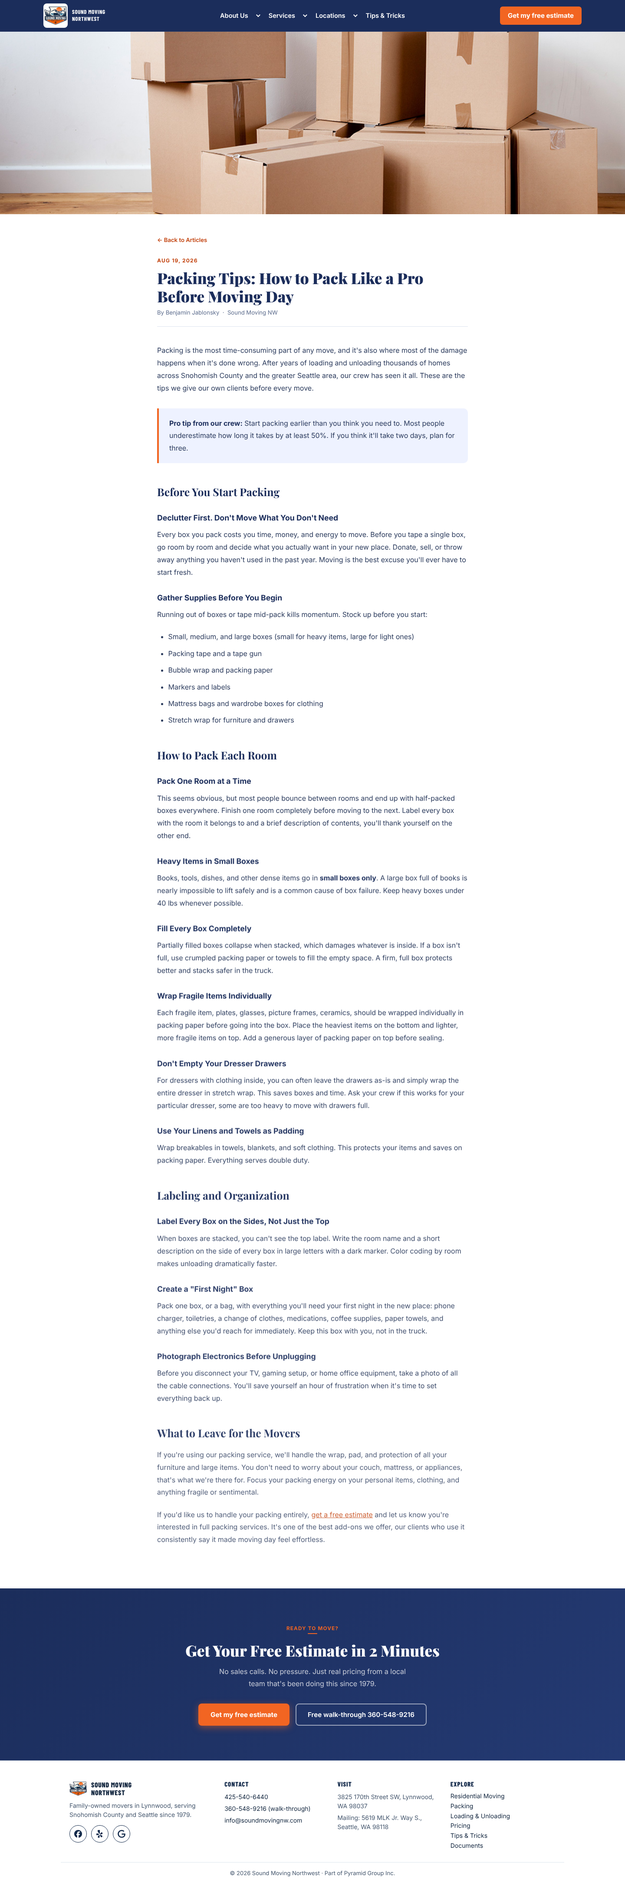
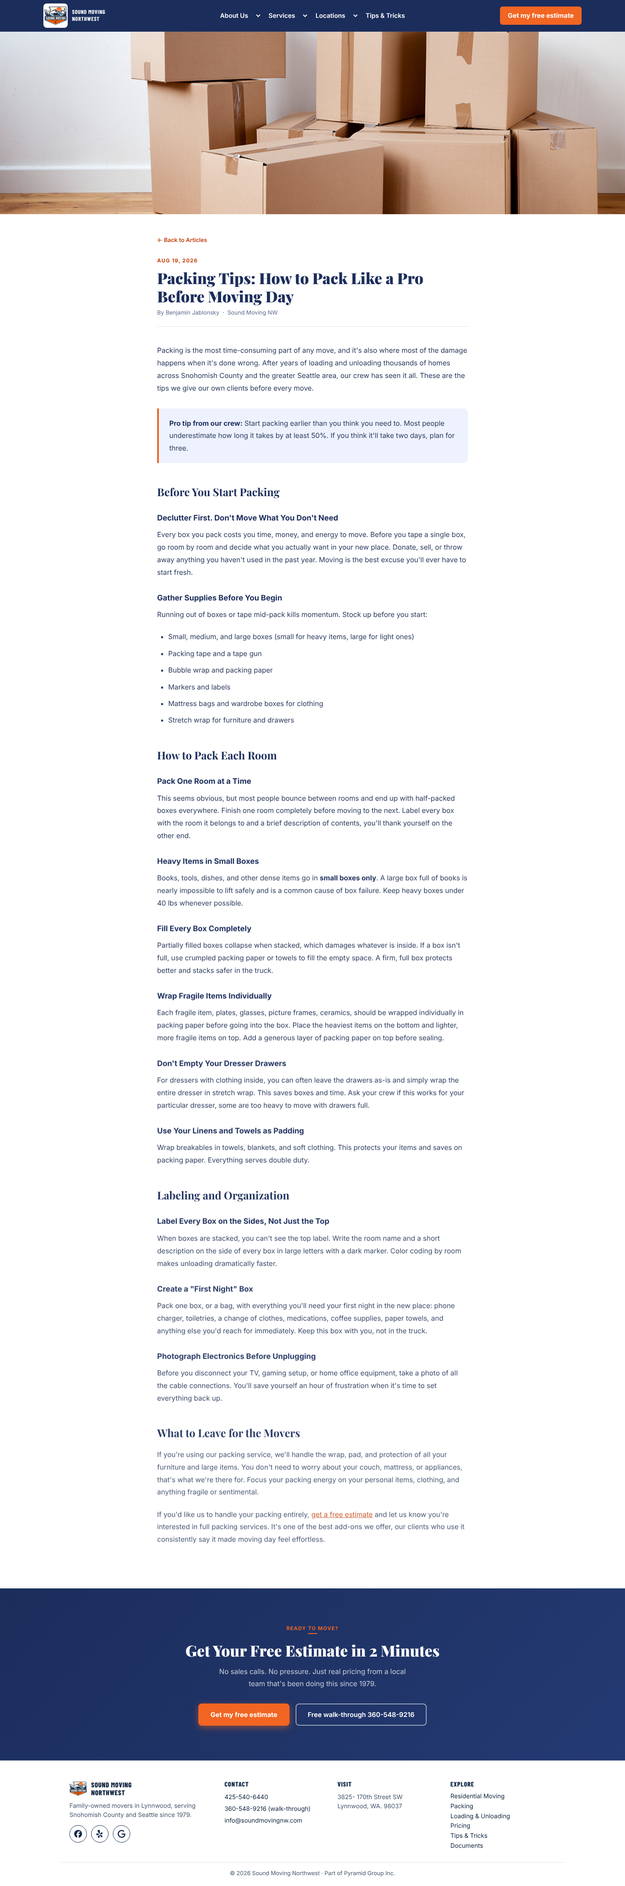
Hero subheadings on every page, Lynnwood address format, no staff names
Claude-Session: https://claude.ai/code/session_01XR3d1gvc3BsSzCEJMdNuLk

Changed region(s): [[0.25, 0.5598, 0.4688, 0.5909], [0.5625, 0.933, 0.625, 0.9641]]

diff --git a/our-story.html b/our-story.html
@@ -45,6 +45,7 @@
     <div class="hp-hero-inner">
       <div class="hp-hero-copy">
         <h1>Our <span class="accent">Story</span></h1>
+        <p class="lead">A family business started in Seattle in 1979, now moving homes across Snohomish County and Seattle from Lynnwood.</p>
         <div class="hp-btns">
           <a class="hp-btn-primary" href="quote.html">Get my free estimate</a>
           <a class="hp-btn-secondary" href="tel:4255406440">Call 425-540-6440</a>
@@ -58,7 +59,7 @@
         <div class="hp-label">Let our family move yours</div>
         <h2 class="hp-title">A Seattle moving family since 1979</h2>
         <p>Our father grew up in Seattle and started his first moving company here in 1979. We learned the trade from him, working moves through high school, and we have run the family business the same way ever since: be professional, be honest and put the customer first.</p>
-        <p>Today Sound Moving Northwest is based in Lynnwood and moves homes and businesses across Snohomish County, Seattle and the rest of Washington State. You will often speak to Ben in the office and see Dan on the job, and our crews are people we have trained ourselves.</p>
+        <p>Today Sound Moving Northwest is based in Lynnwood and moves homes and businesses across Snohomish County, Seattle and the rest of Washington State. Our crews are people we have trained ourselves, and the same family values guide every move.</p>
         <p>You have enough to think about when you move. Our job is to make the move itself the easy part.</p>
         <div class="hp-btns"><a class="hp-btn-primary" href="quote.html">Get my free estimate</a></div>
       </div>
@@ -69,7 +70,7 @@
           <div><strong>150+</strong><span>Five-star reviews</span></div>
           <div><strong>50+</strong><span>Cities served</span></div>
         </div>
-        <p class="hp-checkcard-note">3825 170th Street SW, Lynnwood, WA 98037</p>
+        <p class="hp-checkcard-note">3825- 170th Street SW, Lynnwood, WA. 98037</p>
       </aside>
     </div>
   </section>
@@ -83,7 +84,7 @@
   </section>
   <section class="hp-section alt">
     <div class="hp-head hp-reveal"><div class="hp-label">Reviews</div><h2 class="hp-title">What our customers say</h2></div>
-    <div class="hp-quotes"><figure class="hp-quote hp-reveal"><div class="hp-stars" aria-label="5 out of 5 stars"><svg viewBox="0 0 24 24" aria-hidden="true"><path d="M12 2.5l2.9 6.1 6.6.8-4.9 4.6 1.3 6.6L12 17.4 6.1 20.6l1.3-6.6-4.9-4.6 6.6-.8z" fill="currentColor"/></svg><svg viewBox="0 0 24 24" aria-hidden="true"><path d="M12 2.5l2.9 6.1 6.6.8-4.9 4.6 1.3 6.6L12 17.4 6.1 20.6l1.3-6.6-4.9-4.6 6.6-.8z" fill="currentColor"/></svg><svg viewBox="0 0 24 24" aria-hidden="true"><path d="M12 2.5l2.9 6.1 6.6.8-4.9 4.6 1.3 6.6L12 17.4 6.1 20.6l1.3-6.6-4.9-4.6 6.6-.8z" fill="currentColor"/></svg><svg viewBox="0 0 24 24" aria-hidden="true"><path d="M12 2.5l2.9 6.1 6.6.8-4.9 4.6 1.3 6.6L12 17.4 6.1 20.6l1.3-6.6-4.9-4.6 6.6-.8z" fill="currentColor"/></svg><svg viewBox="0 0 24 24" aria-hidden="true"><path d="M12 2.5l2.9 6.1 6.6.8-4.9 4.6 1.3 6.6L12 17.4 6.1 20.6l1.3-6.6-4.9-4.6 6.6-.8z" fill="currentColor"/></svg></div><blockquote>These people are professionals. Dan, the owner, is fantastic and a real stand-up guy. I would not hesitate to use Sound Moving NW again and highly recommend them to anyone looking for skilled, experienced and prompt movers.</blockquote><figcaption><strong>Emily S.</strong> on Yelp</figcaption></figure><figure class="hp-quote hp-reveal"><div class="hp-stars" aria-label="5 out of 5 stars"><svg viewBox="0 0 24 24" aria-hidden="true"><path d="M12 2.5l2.9 6.1 6.6.8-4.9 4.6 1.3 6.6L12 17.4 6.1 20.6l1.3-6.6-4.9-4.6 6.6-.8z" fill="currentColor"/></svg><svg viewBox="0 0 24 24" aria-hidden="true"><path d="M12 2.5l2.9 6.1 6.6.8-4.9 4.6 1.3 6.6L12 17.4 6.1 20.6l1.3-6.6-4.9-4.6 6.6-.8z" fill="currentColor"/></svg><svg viewBox="0 0 24 24" aria-hidden="true"><path d="M12 2.5l2.9 6.1 6.6.8-4.9 4.6 1.3 6.6L12 17.4 6.1 20.6l1.3-6.6-4.9-4.6 6.6-.8z" fill="currentColor"/></svg><svg viewBox="0 0 24 24" aria-hidden="true"><path d="M12 2.5l2.9 6.1 6.6.8-4.9 4.6 1.3 6.6L12 17.4 6.1 20.6l1.3-6.6-4.9-4.6 6.6-.8z" fill="currentColor"/></svg><svg viewBox="0 0 24 24" aria-hidden="true"><path d="M12 2.5l2.9 6.1 6.6.8-4.9 4.6 1.3 6.6L12 17.4 6.1 20.6l1.3-6.6-4.9-4.6 6.6-.8z" fill="currentColor"/></svg></div><blockquote>Sound Moving Northwest met all our expectations! They were competent, efficient and a good value. Their telephone estimate was very close to the final invoice.</blockquote><figcaption><strong>Kris Elshaug</strong> on Google</figcaption></figure><figure class="hp-quote hp-reveal"><div class="hp-stars" aria-label="5 out of 5 stars"><svg viewBox="0 0 24 24" aria-hidden="true"><path d="M12 2.5l2.9 6.1 6.6.8-4.9 4.6 1.3 6.6L12 17.4 6.1 20.6l1.3-6.6-4.9-4.6 6.6-.8z" fill="currentColor"/></svg><svg viewBox="0 0 24 24" aria-hidden="true"><path d="M12 2.5l2.9 6.1 6.6.8-4.9 4.6 1.3 6.6L12 17.4 6.1 20.6l1.3-6.6-4.9-4.6 6.6-.8z" fill="currentColor"/></svg><svg viewBox="0 0 24 24" aria-hidden="true"><path d="M12 2.5l2.9 6.1 6.6.8-4.9 4.6 1.3 6.6L12 17.4 6.1 20.6l1.3-6.6-4.9-4.6 6.6-.8z" fill="currentColor"/></svg><svg viewBox="0 0 24 24" aria-hidden="true"><path d="M12 2.5l2.9 6.1 6.6.8-4.9 4.6 1.3 6.6L12 17.4 6.1 20.6l1.3-6.6-4.9-4.6 6.6-.8z" fill="currentColor"/></svg><svg viewBox="0 0 24 24" aria-hidden="true"><path d="M12 2.5l2.9 6.1 6.6.8-4.9 4.6 1.3 6.6L12 17.4 6.1 20.6l1.3-6.6-4.9-4.6 6.6-.8z" fill="currentColor"/></svg></div><blockquote>They moved my piano quickly and handled it with extreme care. They gave me an accurate price range for my quote so there were no surprises at the time of payment.</blockquote><figcaption><strong>Zoe P.</strong> on Yelp</figcaption></figure><figure class="hp-quote hp-reveal"><div class="hp-stars" aria-label="5 out of 5 stars"><svg viewBox="0 0 24 24" aria-hidden="true"><path d="M12 2.5l2.9 6.1 6.6.8-4.9 4.6 1.3 6.6L12 17.4 6.1 20.6l1.3-6.6-4.9-4.6 6.6-.8z" fill="currentColor"/></svg><svg viewBox="0 0 24 24" aria-hidden="true"><path d="M12 2.5l2.9 6.1 6.6.8-4.9 4.6 1.3 6.6L12 17.4 6.1 20.6l1.3-6.6-4.9-4.6 6.6-.8z" fill="currentColor"/></svg><svg viewBox="0 0 24 24" aria-hidden="true"><path d="M12 2.5l2.9 6.1 6.6.8-4.9 4.6 1.3 6.6L12 17.4 6.1 20.6l1.3-6.6-4.9-4.6 6.6-.8z" fill="currentColor"/></svg><svg viewBox="0 0 24 24" aria-hidden="true"><path d="M12 2.5l2.9 6.1 6.6.8-4.9 4.6 1.3 6.6L12 17.4 6.1 20.6l1.3-6.6-4.9-4.6 6.6-.8z" fill="currentColor"/></svg><svg viewBox="0 0 24 24" aria-hidden="true"><path d="M12 2.5l2.9 6.1 6.6.8-4.9 4.6 1.3 6.6L12 17.4 6.1 20.6l1.3-6.6-4.9-4.6 6.6-.8z" fill="currentColor"/></svg></div><blockquote>It's refreshing and reassuring to have things go exactly as promised. The staff are all pros. My second time using this company, and twice they came in under bid.</blockquote><figcaption><strong>Sue Griffith</strong> on Google</figcaption></figure></div>
+    <div class="hp-quotes"><figure class="hp-quote hp-reveal"><div class="hp-stars" aria-label="5 out of 5 stars"><svg viewBox="0 0 24 24" aria-hidden="true"><path d="M12 2.5l2.9 6.1 6.6.8-4.9 4.6 1.3 6.6L12 17.4 6.1 20.6l1.3-6.6-4.9-4.6 6.6-.8z" fill="currentColor"/></svg><svg viewBox="0 0 24 24" aria-hidden="true"><path d="M12 2.5l2.9 6.1 6.6.8-4.9 4.6 1.3 6.6L12 17.4 6.1 20.6l1.3-6.6-4.9-4.6 6.6-.8z" fill="currentColor"/></svg><svg viewBox="0 0 24 24" aria-hidden="true"><path d="M12 2.5l2.9 6.1 6.6.8-4.9 4.6 1.3 6.6L12 17.4 6.1 20.6l1.3-6.6-4.9-4.6 6.6-.8z" fill="currentColor"/></svg><svg viewBox="0 0 24 24" aria-hidden="true"><path d="M12 2.5l2.9 6.1 6.6.8-4.9 4.6 1.3 6.6L12 17.4 6.1 20.6l1.3-6.6-4.9-4.6 6.6-.8z" fill="currentColor"/></svg><svg viewBox="0 0 24 24" aria-hidden="true"><path d="M12 2.5l2.9 6.1 6.6.8-4.9 4.6 1.3 6.6L12 17.4 6.1 20.6l1.3-6.6-4.9-4.6 6.6-.8z" fill="currentColor"/></svg></div><blockquote>Great communication from the start from the team. Items were handled with care and the crew was efficient and hard working. Would not hesitate to recommend them to anyone.</blockquote><figcaption><strong>Matt Adkison</strong> on Google</figcaption></figure><figure class="hp-quote hp-reveal"><div class="hp-stars" aria-label="5 out of 5 stars"><svg viewBox="0 0 24 24" aria-hidden="true"><path d="M12 2.5l2.9 6.1 6.6.8-4.9 4.6 1.3 6.6L12 17.4 6.1 20.6l1.3-6.6-4.9-4.6 6.6-.8z" fill="currentColor"/></svg><svg viewBox="0 0 24 24" aria-hidden="true"><path d="M12 2.5l2.9 6.1 6.6.8-4.9 4.6 1.3 6.6L12 17.4 6.1 20.6l1.3-6.6-4.9-4.6 6.6-.8z" fill="currentColor"/></svg><svg viewBox="0 0 24 24" aria-hidden="true"><path d="M12 2.5l2.9 6.1 6.6.8-4.9 4.6 1.3 6.6L12 17.4 6.1 20.6l1.3-6.6-4.9-4.6 6.6-.8z" fill="currentColor"/></svg><svg viewBox="0 0 24 24" aria-hidden="true"><path d="M12 2.5l2.9 6.1 6.6.8-4.9 4.6 1.3 6.6L12 17.4 6.1 20.6l1.3-6.6-4.9-4.6 6.6-.8z" fill="currentColor"/></svg><svg viewBox="0 0 24 24" aria-hidden="true"><path d="M12 2.5l2.9 6.1 6.6.8-4.9 4.6 1.3 6.6L12 17.4 6.1 20.6l1.3-6.6-4.9-4.6 6.6-.8z" fill="currentColor"/></svg></div><blockquote>Sound Moving Northwest met all our expectations! They were competent, efficient and a good value. Their telephone estimate was very close to the final invoice.</blockquote><figcaption><strong>Kris Elshaug</strong> on Google</figcaption></figure><figure class="hp-quote hp-reveal"><div class="hp-stars" aria-label="5 out of 5 stars"><svg viewBox="0 0 24 24" aria-hidden="true"><path d="M12 2.5l2.9 6.1 6.6.8-4.9 4.6 1.3 6.6L12 17.4 6.1 20.6l1.3-6.6-4.9-4.6 6.6-.8z" fill="currentColor"/></svg><svg viewBox="0 0 24 24" aria-hidden="true"><path d="M12 2.5l2.9 6.1 6.6.8-4.9 4.6 1.3 6.6L12 17.4 6.1 20.6l1.3-6.6-4.9-4.6 6.6-.8z" fill="currentColor"/></svg><svg viewBox="0 0 24 24" aria-hidden="true"><path d="M12 2.5l2.9 6.1 6.6.8-4.9 4.6 1.3 6.6L12 17.4 6.1 20.6l1.3-6.6-4.9-4.6 6.6-.8z" fill="currentColor"/></svg><svg viewBox="0 0 24 24" aria-hidden="true"><path d="M12 2.5l2.9 6.1 6.6.8-4.9 4.6 1.3 6.6L12 17.4 6.1 20.6l1.3-6.6-4.9-4.6 6.6-.8z" fill="currentColor"/></svg><svg viewBox="0 0 24 24" aria-hidden="true"><path d="M12 2.5l2.9 6.1 6.6.8-4.9 4.6 1.3 6.6L12 17.4 6.1 20.6l1.3-6.6-4.9-4.6 6.6-.8z" fill="currentColor"/></svg></div><blockquote>They moved my piano quickly and handled it with extreme care. They gave me an accurate price range for my quote so there were no surprises at the time of payment.</blockquote><figcaption><strong>Zoe P.</strong> on Yelp</figcaption></figure><figure class="hp-quote hp-reveal"><div class="hp-stars" aria-label="5 out of 5 stars"><svg viewBox="0 0 24 24" aria-hidden="true"><path d="M12 2.5l2.9 6.1 6.6.8-4.9 4.6 1.3 6.6L12 17.4 6.1 20.6l1.3-6.6-4.9-4.6 6.6-.8z" fill="currentColor"/></svg><svg viewBox="0 0 24 24" aria-hidden="true"><path d="M12 2.5l2.9 6.1 6.6.8-4.9 4.6 1.3 6.6L12 17.4 6.1 20.6l1.3-6.6-4.9-4.6 6.6-.8z" fill="currentColor"/></svg><svg viewBox="0 0 24 24" aria-hidden="true"><path d="M12 2.5l2.9 6.1 6.6.8-4.9 4.6 1.3 6.6L12 17.4 6.1 20.6l1.3-6.6-4.9-4.6 6.6-.8z" fill="currentColor"/></svg><svg viewBox="0 0 24 24" aria-hidden="true"><path d="M12 2.5l2.9 6.1 6.6.8-4.9 4.6 1.3 6.6L12 17.4 6.1 20.6l1.3-6.6-4.9-4.6 6.6-.8z" fill="currentColor"/></svg><svg viewBox="0 0 24 24" aria-hidden="true"><path d="M12 2.5l2.9 6.1 6.6.8-4.9 4.6 1.3 6.6L12 17.4 6.1 20.6l1.3-6.6-4.9-4.6 6.6-.8z" fill="currentColor"/></svg></div><blockquote>It's refreshing and reassuring to have things go exactly as promised. The staff are all pros. My second time using this company, and twice they came in under bid.</blockquote><figcaption><strong>Sue Griffith</strong> on Google</figcaption></figure></div>
   </section>
   <section class="hp-section">
     <div class="hp-head hp-reveal"><div class="hp-label">Keep exploring</div><h2 class="hp-title">More from Sound Moving Northwest</h2></div>
@@ -121,8 +122,7 @@
     <div>
       <h3>Visit</h3>
       <ul>
-        <li>3825 170th Street SW, Lynnwood, WA 98037</li>
-        <li>Mailing: 5619 MLK Jr. Way S., Seattle, WA 98118</li>
+        <li>3825- 170th Street SW<br>Lynnwood, WA. 98037</li>
       </ul>
     </div>
     <div class="sm-col-explore">

diff --git a/lynnwood.html b/lynnwood.html
@@ -4,7 +4,7 @@
 <meta charset="UTF-8">
 <meta name="viewport" content="width=device-width, initial-scale=1.0">
 <title>Lynnwood | Sound Moving Northwest</title>
-<meta name="description" content="Lynnwood movers based at 3825 170th Street SW. Family owned since 1979, serving Lynnwood, Snohomish County and Seattle from $150/hr.">
+<meta name="description" content="Lynnwood movers based at 3825- 170th Street SW. Family owned since 1979, serving Lynnwood, Snohomish County and Seattle from $150/hr.">
 <meta name="robots" content="index, follow">
 <link rel="icon" type="image/png" href="images/favicon.png">
 <link rel="preconnect" href="https://fonts.googleapis.com"><link rel="preconnect" href="https://fonts.gstatic.com" crossorigin><link href="https://fonts.googleapis.com/css2?family=Barlow+Condensed:wght@600;700;800&family=Inter:wght@400;500;600;700&family=Playfair+Display:wght@700;900&display=swap" rel="stylesheet">
@@ -45,6 +45,7 @@
     <div class="hp-hero-inner">
       <div class="hp-hero-copy">
         <h1>Movers in <span class="accent">Lynnwood</span></h1>
+        <p class="lead">Our home base. Family-owned movers serving Lynnwood and south Snohomish County since 1979.</p>
         <div class="hp-btns">
           <a class="hp-btn-primary" href="quote.html">Get my free estimate</a>
           <a class="hp-btn-secondary" href="tel:4255406440">Call 425-540-6440</a>
@@ -57,7 +58,7 @@
       <div class="hp-prose hp-reveal">
         <div class="hp-label">Lynnwood</div>
         <h2 class="hp-title">Our home base</h2>
-        <p>Our office is at 3825 170th Street SW, Lynnwood, WA 98037, so Lynnwood moves are right on our doorstep. Our crews know the apartment complexes, the parking, the hills and the timing around I-5 and the 405 interchange.</p><p>Whether you are moving across Lynnwood, up to Everett or down into Seattle, you get the same family-run team, the same hourly rate and a free estimate before you book.</p>
+        <p>Our office is at 3825- 170th Street SW, Lynnwood, WA. 98037, so Lynnwood moves are right on our doorstep. Our crews know the apartment complexes, the parking, the hills and the timing around I-5 and the 405 interchange.</p><p>Whether you are moving across Lynnwood, up to Everett or down into Seattle, you get the same family-run team, the same hourly rate and a free estimate before you book.</p>
         <div class="hp-btns"><a class="hp-btn-primary" href="quote.html">Get my free estimate</a></div>
       </div>
       <aside class="hp-checkcard hp-reveal">
@@ -69,13 +70,13 @@
           <li><span class="hp-ck"><svg viewBox="0 0 24 24" aria-hidden="true"><path d="M5 12.5l4.5 4.5L19 7.5" fill="none" stroke="currentColor" stroke-width="2.6" stroke-linecap="round" stroke-linejoin="round"/></svg></span>Non-binding estimates, billed on actual time</li>
           <li><span class="hp-ck"><svg viewBox="0 0 24 24" aria-hidden="true"><path d="M5 12.5l4.5 4.5L19 7.5" fill="none" stroke="currentColor" stroke-width="2.6" stroke-linecap="round" stroke-linejoin="round"/></svg></span>WA UTC HG069611 · U.S. DOT 4501511</li>
         </ul>
-        <p class="hp-checkcard-note">3825 170th Street SW, Lynnwood, WA 98037</p>
+        <p class="hp-checkcard-note">3825- 170th Street SW, Lynnwood, WA. 98037</p>
       </aside>
     </div>
   </section>
   <section class="hp-section alt">
     <div class="hp-head hp-reveal"><div class="hp-label">Lynnwood</div><h2 class="hp-title">Moving in and around Lynnwood</h2></div>
-    <div class="hp-cards"><article class="hp-card"><div class="icon"><svg viewBox="0 0 24 24" aria-hidden="true"><path d="M5 12.5l4.5 4.5L19 7.5" fill="none" stroke="currentColor" stroke-width="2.6" stroke-linecap="round" stroke-linejoin="round"/></svg></div><h3>Local office</h3><p>Visit or call us. We are at 3825 170th Street SW, Lynnwood, WA 98037.</p></article><article class="hp-card"><div class="icon"><svg viewBox="0 0 24 24" aria-hidden="true"><path d="M5 12.5l4.5 4.5L19 7.5" fill="none" stroke="currentColor" stroke-width="2.6" stroke-linecap="round" stroke-linejoin="round"/></svg></div><h3>Free walk-through</h3><p>For larger homes, book a free walk-through at 360-548-9216 and we will price it in person.</p></article><article class="hp-card"><div class="icon"><svg viewBox="0 0 24 24" aria-hidden="true"><path d="M5 12.5l4.5 4.5L19 7.5" fill="none" stroke="currentColor" stroke-width="2.6" stroke-linecap="round" stroke-linejoin="round"/></svg></div><h3>South Snohomish County</h3><p>Lynnwood, Edmonds, Mountlake Terrace, Mill Creek, Bothell and Mukilteo.</p></article><article class="hp-card"><div class="icon"><svg viewBox="0 0 24 24" aria-hidden="true"><path d="M5 12.5l4.5 4.5L19 7.5" fill="none" stroke="currentColor" stroke-width="2.6" stroke-linecap="round" stroke-linejoin="round"/></svg></div><h3>Licensed and insured</h3><p>WA UTC permit HG069611 and U.S. DOT 4501511, with a $1,000,000 general liability policy.</p></article></div>
+    <div class="hp-cards"><article class="hp-card"><div class="icon"><svg viewBox="0 0 24 24" aria-hidden="true"><path d="M5 12.5l4.5 4.5L19 7.5" fill="none" stroke="currentColor" stroke-width="2.6" stroke-linecap="round" stroke-linejoin="round"/></svg></div><h3>Local office</h3><p>Visit or call us. We are at 3825- 170th Street SW, Lynnwood, WA. 98037.</p></article><article class="hp-card"><div class="icon"><svg viewBox="0 0 24 24" aria-hidden="true"><path d="M5 12.5l4.5 4.5L19 7.5" fill="none" stroke="currentColor" stroke-width="2.6" stroke-linecap="round" stroke-linejoin="round"/></svg></div><h3>Free walk-through</h3><p>For larger homes, book a free walk-through at 360-548-9216 and we will price it in person.</p></article><article class="hp-card"><div class="icon"><svg viewBox="0 0 24 24" aria-hidden="true"><path d="M5 12.5l4.5 4.5L19 7.5" fill="none" stroke="currentColor" stroke-width="2.6" stroke-linecap="round" stroke-linejoin="round"/></svg></div><h3>South Snohomish County</h3><p>Lynnwood, Edmonds, Mountlake Terrace, Mill Creek, Bothell and Mukilteo.</p></article><article class="hp-card"><div class="icon"><svg viewBox="0 0 24 24" aria-hidden="true"><path d="M5 12.5l4.5 4.5L19 7.5" fill="none" stroke="currentColor" stroke-width="2.6" stroke-linecap="round" stroke-linejoin="round"/></svg></div><h3>Licensed and insured</h3><p>WA UTC permit HG069611 and U.S. DOT 4501511, with a $1,000,000 general liability policy.</p></article></div>
   </section>
   <section class="hp-section">
     <div class="hp-head hp-reveal"><div class="hp-label">Services</div><h2 class="hp-title">What we can do in Lynnwood</h2></div>
@@ -87,7 +88,7 @@
   </section>
   <section class="hp-section">
     <div class="hp-head hp-reveal"><div class="hp-label">Questions</div><h2 class="hp-title">Before you book</h2></div>
-    <div class="hp-faq hp-reveal"><details><summary>Where is your office?<svg viewBox="0 0 24 24" aria-hidden="true"><path d="M6 9l6 6 6-6" fill="none" stroke="currentColor" stroke-width="2.2" stroke-linecap="round" stroke-linejoin="round"/></svg></summary><p>3825 170th Street SW, Lynnwood, WA 98037. Call 425-540-6440 before you visit so we can make sure someone is in.</p></details><details><summary>Can someone come out for a walk-through?<svg viewBox="0 0 24 24" aria-hidden="true"><path d="M6 9l6 6 6-6" fill="none" stroke="currentColor" stroke-width="2.2" stroke-linecap="round" stroke-linejoin="round"/></svg></summary><p>Yes. Call 360-548-9216 to book a free walk-through.</p></details><details><summary>Is my estimate binding?<svg viewBox="0 0 24 24" aria-hidden="true"><path d="M6 9l6 6 6-6" fill="none" stroke="currentColor" stroke-width="2.2" stroke-linecap="round" stroke-linejoin="round"/></svg></summary><p>No. Estimates are non-binding. Your final bill is based on the hours we actually work, or the minimum. If we finish early, you pay less.</p></details><details><summary>How do I pay?<svg viewBox="0 0 24 24" aria-hidden="true"><path d="M6 9l6 6 6-6" fill="none" stroke="currentColor" stroke-width="2.2" stroke-linecap="round" stroke-linejoin="round"/></svg></summary><p>Once the job is done and the clock is stopped, we go over the total with you. We accept cash, check, Venmo, Zelle and credit card. Non-cash payments carry a 4% fee.</p></details></div>
+    <div class="hp-faq hp-reveal"><details><summary>Where is your office?<svg viewBox="0 0 24 24" aria-hidden="true"><path d="M6 9l6 6 6-6" fill="none" stroke="currentColor" stroke-width="2.2" stroke-linecap="round" stroke-linejoin="round"/></svg></summary><p>3825- 170th Street SW, Lynnwood, WA. 98037. Call 425-540-6440 before you visit so we can make sure someone is in.</p></details><details><summary>Can someone come out for a walk-through?<svg viewBox="0 0 24 24" aria-hidden="true"><path d="M6 9l6 6 6-6" fill="none" stroke="currentColor" stroke-width="2.2" stroke-linecap="round" stroke-linejoin="round"/></svg></summary><p>Yes. Call 360-548-9216 to book a free walk-through.</p></details><details><summary>Is my estimate binding?<svg viewBox="0 0 24 24" aria-hidden="true"><path d="M6 9l6 6 6-6" fill="none" stroke="currentColor" stroke-width="2.2" stroke-linecap="round" stroke-linejoin="round"/></svg></summary><p>No. Estimates are non-binding. Your final bill is based on the hours we actually work, or the minimum. If we finish early, you pay less.</p></details><details><summary>How do I pay?<svg viewBox="0 0 24 24" aria-hidden="true"><path d="M6 9l6 6 6-6" fill="none" stroke="currentColor" stroke-width="2.2" stroke-linecap="round" stroke-linejoin="round"/></svg></summary><p>Once the job is done and the clock is stopped, we go over the total with you. We accept cash, check, Venmo, Zelle and credit card. Non-cash payments carry a 4% fee.</p></details></div>
   </section>
   <section class="hp-section alt">
     <div class="hp-head hp-reveal"><div class="hp-label">Keep exploring</div><h2 class="hp-title">More from Sound Moving Northwest</h2></div>
@@ -125,8 +126,7 @@
     <div>
       <h3>Visit</h3>
       <ul>
-        <li>3825 170th Street SW, Lynnwood, WA 98037</li>
-        <li>Mailing: 5619 MLK Jr. Way S., Seattle, WA 98118</li>
+        <li>3825- 170th Street SW<br>Lynnwood, WA. 98037</li>
       </ul>
     </div>
     <div class="sm-col-explore">

diff --git a/residential-moving.html b/residential-moving.html
@@ -45,6 +45,7 @@
     <div class="hp-hero-inner">
       <div class="hp-hero-copy">
         <h1>Residential <span class="accent">Moving</span></h1>
+        <p class="lead">Houses, condos and apartments, across town or across the state. Two movers and a truck from $150/hr.</p>
         <div class="hp-btns">
           <a class="hp-btn-primary" href="quote.html">Get my free estimate</a>
           <a class="hp-btn-secondary" href="tel:4255406440">Call 425-540-6440</a>
@@ -70,7 +71,7 @@
   </section>
   <section class="hp-section alt">
     <div class="hp-head hp-reveal"><div class="hp-label">Residential Moving</div><h2 class="hp-title">Why families book us</h2></div>
-    <div class="hp-cards"><article class="hp-card"><div class="icon"><svg viewBox="0 0 24 24" aria-hidden="true"><path d="M5 12.5l4.5 4.5L19 7.5" fill="none" stroke="currentColor" stroke-width="2.6" stroke-linecap="round" stroke-linejoin="round"/></svg></div><h3>Priced by the hour</h3><p>Two movers and a truck from $150/hr. You only pay for the time we work, with a 2-hour minimum on local moves.</p></article><article class="hp-card"><div class="icon"><svg viewBox="0 0 24 24" aria-hidden="true"><path d="M5 12.5l4.5 4.5L19 7.5" fill="none" stroke="currentColor" stroke-width="2.6" stroke-linecap="round" stroke-linejoin="round"/></svg></div><h3>Furniture protected</h3><p>Upholstered pieces are shrink-wrapped inside before they go out the door. Runners and drop cloths protect floors and entryways in wet weather.</p></article><article class="hp-card"><div class="icon"><svg viewBox="0 0 24 24" aria-hidden="true"><path d="M5 12.5l4.5 4.5L19 7.5" fill="none" stroke="currentColor" stroke-width="2.6" stroke-linecap="round" stroke-linejoin="round"/></svg></div><h3>Taken apart and put back</h3><p>Beds, tables and anything else that needs it are taken apart, moved safely and put back together in your new home.</p></article><article class="hp-card"><div class="icon"><svg viewBox="0 0 24 24" aria-hidden="true"><path d="M5 12.5l4.5 4.5L19 7.5" fill="none" stroke="currentColor" stroke-width="2.6" stroke-linecap="round" stroke-linejoin="round"/></svg></div><h3>Real people on the phone</h3><p>Ben and the office team answer questions, help you plan and confirm every detail before moving day.</p></article></div>
+    <div class="hp-cards"><article class="hp-card"><div class="icon"><svg viewBox="0 0 24 24" aria-hidden="true"><path d="M5 12.5l4.5 4.5L19 7.5" fill="none" stroke="currentColor" stroke-width="2.6" stroke-linecap="round" stroke-linejoin="round"/></svg></div><h3>Priced by the hour</h3><p>Two movers and a truck from $150/hr. You only pay for the time we work, with a 2-hour minimum on local moves.</p></article><article class="hp-card"><div class="icon"><svg viewBox="0 0 24 24" aria-hidden="true"><path d="M5 12.5l4.5 4.5L19 7.5" fill="none" stroke="currentColor" stroke-width="2.6" stroke-linecap="round" stroke-linejoin="round"/></svg></div><h3>Furniture protected</h3><p>Upholstered pieces are shrink-wrapped inside before they go out the door. Runners and drop cloths protect floors and entryways in wet weather.</p></article><article class="hp-card"><div class="icon"><svg viewBox="0 0 24 24" aria-hidden="true"><path d="M5 12.5l4.5 4.5L19 7.5" fill="none" stroke="currentColor" stroke-width="2.6" stroke-linecap="round" stroke-linejoin="round"/></svg></div><h3>Taken apart and put back</h3><p>Beds, tables and anything else that needs it are taken apart, moved safely and put back together in your new home.</p></article><article class="hp-card"><div class="icon"><svg viewBox="0 0 24 24" aria-hidden="true"><path d="M5 12.5l4.5 4.5L19 7.5" fill="none" stroke="currentColor" stroke-width="2.6" stroke-linecap="round" stroke-linejoin="round"/></svg></div><h3>Real people on the phone</h3><p>Our office team answers your questions, helps you plan and confirms every detail before moving day.</p></article></div>
   </section>
   <section class="hp-section alt">
     <div class="hp-head hp-reveal"><div class="hp-label">Moving day</div><h2 class="hp-title">What happens on the day</h2><p class="hp-sub-text">Every move follows the same five steps, so you always know where things stand.</p></div>
@@ -116,8 +117,7 @@
     <div>
       <h3>Visit</h3>
       <ul>
-        <li>3825 170th Street SW, Lynnwood, WA 98037</li>
-        <li>Mailing: 5619 MLK Jr. Way S., Seattle, WA 98118</li>
+        <li>3825- 170th Street SW<br>Lynnwood, WA. 98037</li>
       </ul>
     </div>
     <div class="sm-col-explore">

diff --git a/index.html b/index.html
@@ -1315,6 +1315,7 @@ button:disabled, button[aria-disabled="true"], .is-disabled { opacity:.55; curso
 .hero h1, .hero-badge { color: #fff; }
 .hero-badge { background: rgba(242,101,34,.15); border: 1px solid rgba(242,101,34,.5); color: #ffb088; }
 .stat-num .stat-star { width: .72em; height: .72em; margin-left: 4px; vertical-align: .02em; color: #f26522; }
+.hero .hero-sub { color: rgba(255,255,255,.9); font-size: clamp(1.02rem, 1.5vw, 1.2rem); line-height: 1.6; max-width: 560px; margin: 22px 0 32px !important; }
 </style>
 <script>
 // Load webchat widget only after first user interaction to avoid TBT/CLS impact
@@ -1376,6 +1377,7 @@ button:disabled, button[aria-disabled="true"], .is-disabled { opacity:.55; curso
   <div class="hero-inner">
   <div class="hero-left hero-clean">
     <h1>Local Movers You Can Actually <span class="hero-accent">Afford.</span></h1>
+    <p class="hero-sub">Family-owned movers serving Snohomish County and Seattle since 1979. Two movers and a truck from $150/hr, with no hidden fees.</p>
     <div class="hero-btns hero-btns-left">
       <a href="quote.html" class="btn-primary">Get my free estimate</a>
       <a href="tel:4255406440" class="btn-secondary">Call 425-540-6440</a>
@@ -2264,8 +2266,7 @@ button:disabled, button[aria-disabled="true"], .is-disabled { opacity:.55; curso
     <div>
       <h3>Visit</h3>
       <ul>
-        <li>3825 170th Street SW, Lynnwood, WA 98037</li>
-        <li>Mailing: 5619 MLK Jr. Way S., Seattle, WA 98118</li>
+        <li>3825- 170th Street SW<br>Lynnwood, WA. 98037</li>
       </ul>
     </div>
     <div class="sm-col-explore">

diff --git a/north-seattle.html b/north-seattle.html
@@ -45,6 +45,7 @@
     <div class="hp-hero-inner">
       <div class="hp-hero-copy">
         <h1>Movers in North <span class="accent">Seattle</span></h1>
+        <p class="lead">Moves across North Seattle and the Puget Sound area, from a family that started here in 1979.</p>
         <div class="hp-btns">
           <a class="hp-btn-primary" href="quote.html">Get my free estimate</a>
           <a class="hp-btn-secondary" href="tel:4255406440">Call 425-540-6440</a>
@@ -69,7 +70,7 @@
           <li><span class="hp-ck"><svg viewBox="0 0 24 24" aria-hidden="true"><path d="M5 12.5l4.5 4.5L19 7.5" fill="none" stroke="currentColor" stroke-width="2.6" stroke-linecap="round" stroke-linejoin="round"/></svg></span>Non-binding estimates, billed on actual time</li>
           <li><span class="hp-ck"><svg viewBox="0 0 24 24" aria-hidden="true"><path d="M5 12.5l4.5 4.5L19 7.5" fill="none" stroke="currentColor" stroke-width="2.6" stroke-linecap="round" stroke-linejoin="round"/></svg></span>WA UTC HG069611 · U.S. DOT 4501511</li>
         </ul>
-        <p class="hp-checkcard-note">3825 170th Street SW, Lynnwood, WA 98037</p>
+        <p class="hp-checkcard-note">3825- 170th Street SW, Lynnwood, WA. 98037</p>
       </aside>
     </div>
   </section>
@@ -125,8 +126,7 @@
     <div>
       <h3>Visit</h3>
       <ul>
-        <li>3825 170th Street SW, Lynnwood, WA 98037</li>
-        <li>Mailing: 5619 MLK Jr. Way S., Seattle, WA 98118</li>
+        <li>3825- 170th Street SW<br>Lynnwood, WA. 98037</li>
       </ul>
     </div>
     <div class="sm-col-explore">

diff --git a/everett.html b/everett.html
@@ -45,6 +45,7 @@
     <div class="hp-hero-inner">
       <div class="hp-hero-copy">
         <h1>Movers in <span class="accent">Everett</span></h1>
+        <p class="lead">Local moves across Everett and nearby towns, from our Lynnwood office just down I-5.</p>
         <div class="hp-btns">
           <a class="hp-btn-primary" href="quote.html">Get my free estimate</a>
           <a class="hp-btn-secondary" href="tel:4255406440">Call 425-540-6440</a>
@@ -69,7 +70,7 @@
           <li><span class="hp-ck"><svg viewBox="0 0 24 24" aria-hidden="true"><path d="M5 12.5l4.5 4.5L19 7.5" fill="none" stroke="currentColor" stroke-width="2.6" stroke-linecap="round" stroke-linejoin="round"/></svg></span>Non-binding estimates, billed on actual time</li>
           <li><span class="hp-ck"><svg viewBox="0 0 24 24" aria-hidden="true"><path d="M5 12.5l4.5 4.5L19 7.5" fill="none" stroke="currentColor" stroke-width="2.6" stroke-linecap="round" stroke-linejoin="round"/></svg></span>WA UTC HG069611 · U.S. DOT 4501511</li>
         </ul>
-        <p class="hp-checkcard-note">3825 170th Street SW, Lynnwood, WA 98037</p>
+        <p class="hp-checkcard-note">3825- 170th Street SW, Lynnwood, WA. 98037</p>
       </aside>
     </div>
   </section>
@@ -125,8 +126,7 @@
     <div>
       <h3>Visit</h3>
       <ul>
-        <li>3825 170th Street SW, Lynnwood, WA 98037</li>
-        <li>Mailing: 5619 MLK Jr. Way S., Seattle, WA 98118</li>
+        <li>3825- 170th Street SW<br>Lynnwood, WA. 98037</li>
       </ul>
     </div>
     <div class="sm-col-explore">

diff --git a/marysville.html b/marysville.html
@@ -45,6 +45,7 @@
     <div class="hp-hero-inner">
       <div class="hp-hero-copy">
         <h1>Movers in <span class="accent">Marysville</span></h1>
+        <p class="lead">Family-owned movers serving Marysville and north Snohomish County, from $150/hr.</p>
         <div class="hp-btns">
           <a class="hp-btn-primary" href="quote.html">Get my free estimate</a>
           <a class="hp-btn-secondary" href="tel:4255406440">Call 425-540-6440</a>
@@ -69,7 +70,7 @@
           <li><span class="hp-ck"><svg viewBox="0 0 24 24" aria-hidden="true"><path d="M5 12.5l4.5 4.5L19 7.5" fill="none" stroke="currentColor" stroke-width="2.6" stroke-linecap="round" stroke-linejoin="round"/></svg></span>Non-binding estimates, billed on actual time</li>
           <li><span class="hp-ck"><svg viewBox="0 0 24 24" aria-hidden="true"><path d="M5 12.5l4.5 4.5L19 7.5" fill="none" stroke="currentColor" stroke-width="2.6" stroke-linecap="round" stroke-linejoin="round"/></svg></span>WA UTC HG069611 · U.S. DOT 4501511</li>
         </ul>
-        <p class="hp-checkcard-note">3825 170th Street SW, Lynnwood, WA 98037</p>
+        <p class="hp-checkcard-note">3825- 170th Street SW, Lynnwood, WA. 98037</p>
       </aside>
     </div>
   </section>
@@ -125,8 +126,7 @@
     <div>
       <h3>Visit</h3>
       <ul>
-        <li>3825 170th Street SW, Lynnwood, WA 98037</li>
-        <li>Mailing: 5619 MLK Jr. Way S., Seattle, WA 98118</li>
+        <li>3825- 170th Street SW<br>Lynnwood, WA. 98037</li>
       </ul>
     </div>
     <div class="sm-col-explore">

diff --git a/quote.html b/quote.html
@@ -838,8 +838,8 @@ input:focus, select:focus, textarea:focus { border-color: #f26522; box-shadow: 0
           <p style="margin-bottom:16px;">Thanks so much!</p>
           <div style="font-size:0.88rem;line-height:1.8;color:#333;margin-bottom:14px;">
             <strong>Sound Moving NW</strong><br>
-            3825 170th Street SW<br>
-            Lynnwood, WA 98037<br>
+            3825- 170th Street SW<br>
+            Lynnwood, WA. 98037<br>
             425-540-6440<br>
             Licensed &amp; Insured<br>
             <a href="https://www.soundmovingnw.com" style="color:#1b2d5b;font-weight:600;">www.soundmovingnw.com</a><br>
@@ -1865,8 +1865,7 @@ updateEstimate();
     <div>
       <h3>Visit</h3>
       <ul>
-        <li>3825 170th Street SW, Lynnwood, WA 98037</li>
-        <li>Mailing: 5619 MLK Jr. Way S., Seattle, WA 98118</li>
+        <li>3825- 170th Street SW<br>Lynnwood, WA. 98037</li>
       </ul>
     </div>
     <div class="sm-col-explore">

diff --git a/packing.html b/packing.html
@@ -45,6 +45,7 @@
     <div class="hp-hero-inner">
       <div class="hp-hero-copy">
         <h1>Packing <span class="accent">Services</span></h1>
+        <p class="lead">Experienced packers for your home or office. Full packing or just the rooms you choose, from $70/hr.</p>
         <div class="hp-btns">
           <a class="hp-btn-primary" href="quote.html">Get my free estimate</a>
           <a class="hp-btn-secondary" href="tel:4255406440">Call 425-540-6440</a>
@@ -120,8 +121,7 @@
     <div>
       <h3>Visit</h3>
       <ul>
-        <li>3825 170th Street SW, Lynnwood, WA 98037</li>
-        <li>Mailing: 5619 MLK Jr. Way S., Seattle, WA 98118</li>
+        <li>3825- 170th Street SW<br>Lynnwood, WA. 98037</li>
       </ul>
     </div>
     <div class="sm-col-explore">

diff --git a/loading-unloading.html b/loading-unloading.html
@@ -45,6 +45,7 @@
     <div class="hp-hero-inner">
       <div class="hp-hero-copy">
         <h1>Loading &amp; <span class="accent">Unloading</span></h1>
+        <p class="lead">Extra muscle for trucks, PODs and storage units. A trained, insured crew from $150/hr.</p>
         <div class="hp-btns">
           <a class="hp-btn-primary" href="quote.html">Get my free estimate</a>
           <a class="hp-btn-secondary" href="tel:4255406440">Call 425-540-6440</a>
@@ -127,8 +128,7 @@
     <div>
       <h3>Visit</h3>
       <ul>
-        <li>3825 170th Street SW, Lynnwood, WA 98037</li>
-        <li>Mailing: 5619 MLK Jr. Way S., Seattle, WA 98118</li>
+        <li>3825- 170th Street SW<br>Lynnwood, WA. 98037</li>
       </ul>
     </div>
     <div class="sm-col-explore">

diff --git a/terms-and-conditions.html b/terms-and-conditions.html
@@ -140,6 +140,7 @@
 <div class="page-header">
   <div class="label">Legal Document</div>
   <h1>Terms &amp; Conditions</h1>
+  <p>Please read and sign before your move with Sound Moving Northwest.</p>
 </div>
 
 <div class="content">
@@ -377,8 +378,7 @@
     <div>
       <h3>Visit</h3>
       <ul>
-        <li>3825 170th Street SW, Lynnwood, WA 98037</li>
-        <li>Mailing: 5619 MLK Jr. Way S., Seattle, WA 98118</li>
+        <li>3825- 170th Street SW<br>Lynnwood, WA. 98037</li>
       </ul>
     </div>
     <div class="sm-col-explore">

diff --git a/article-customer-service.html b/article-customer-service.html
@@ -209,8 +209,7 @@ nav { position: sticky; top: 0; z-index: 100; background: #1b2d5b; height: 68px;
     <div>
       <h3>Visit</h3>
       <ul>
-        <li>3825 170th Street SW, Lynnwood, WA 98037</li>
-        <li>Mailing: 5619 MLK Jr. Way S., Seattle, WA 98118</li>
+        <li>3825- 170th Street SW<br>Lynnwood, WA. 98037</li>
       </ul>
     </div>
     <div class="sm-col-explore">
